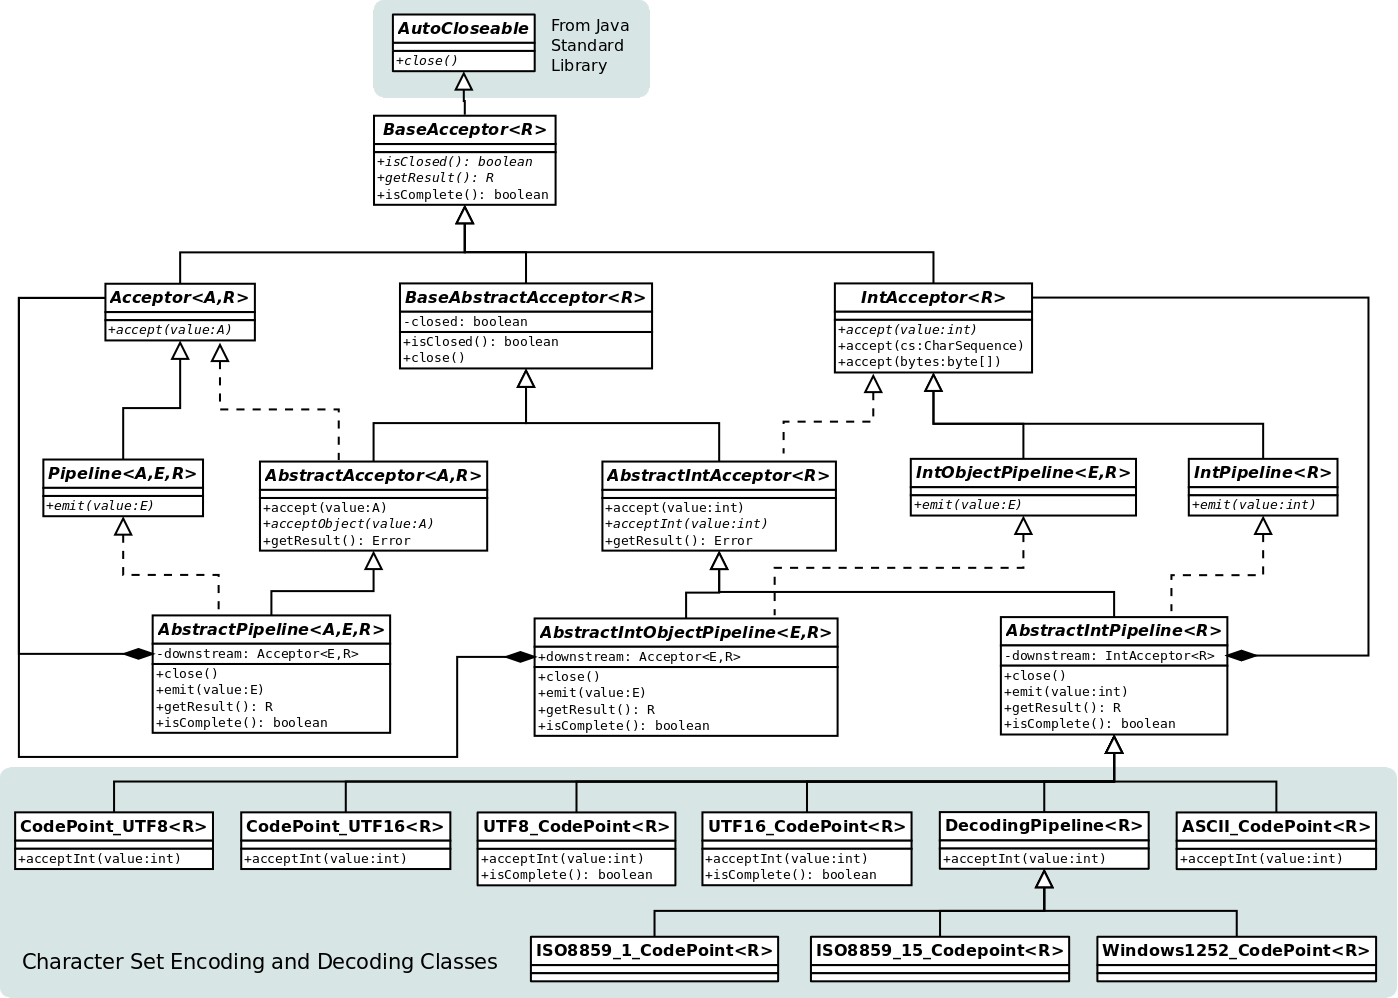
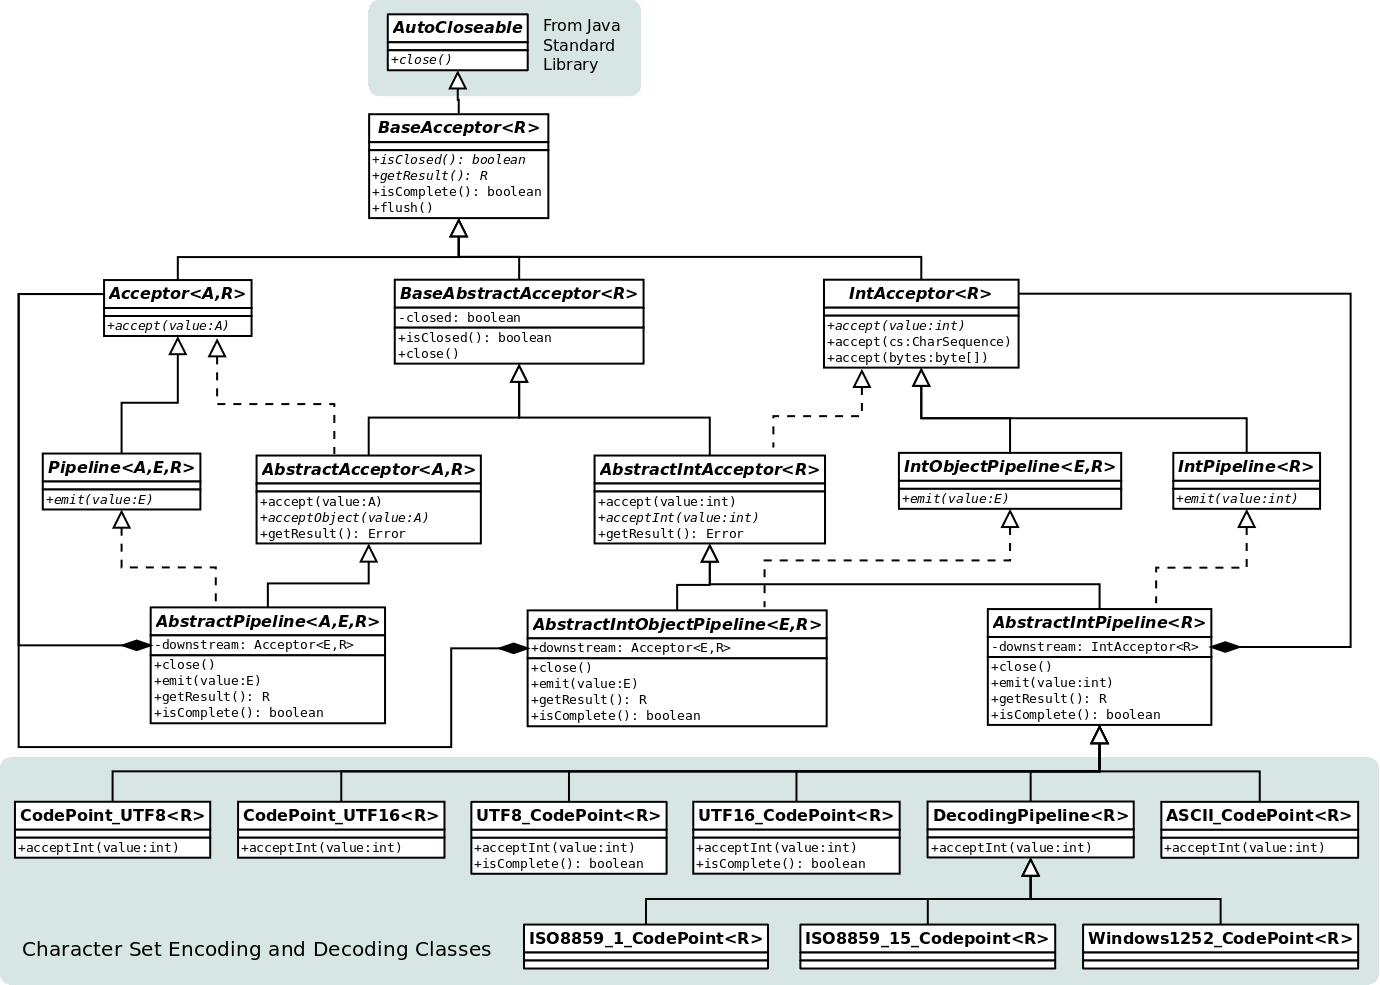
Added flush function

diff --git a/src/main/java/net/pwall/util/pipeline/AbstractIntObjectPipeline.java b/src/main/java/net/pwall/util/pipeline/AbstractIntObjectPipeline.java
@@ -35,7 +35,7 @@ package net.pwall.util.pipeline;
 public abstract class AbstractIntObjectPipeline<E, R> extends AbstractIntAcceptor<R>
         implements IntObjectPipeline<E, R> {
 
-    private Acceptor<? super E, ? extends R> downstream;
+    private final Acceptor<? super E, ? extends R> downstream;
 
     /**
      * Construct an {@code AbstractIntObjectPipeline} with the given downstream {@link Acceptor}.
@@ -84,6 +84,14 @@ public abstract class AbstractIntObjectPipeline<E, R> extends AbstractIntAccepto
     @Override
     public boolean isComplete() {
         return downstream.isComplete();
+    }
+
+    /**
+     * Propagate the flush operation to the downstream acceptor.
+     */
+    @Override
+    public void flush() {
+        downstream.flush();
     }
 
 }

diff --git a/src/main/java/net/pwall/util/pipeline/AbstractPipeline.java b/src/main/java/net/pwall/util/pipeline/AbstractPipeline.java
@@ -35,7 +35,7 @@ package net.pwall.util.pipeline;
  */
 abstract public class AbstractPipeline<A, E, R> extends AbstractAcceptor<A, R> implements Pipeline<A, E, R> {
 
-    private Acceptor<? super E, ? extends R> downstream;
+    private final Acceptor<? super E, ? extends R> downstream;
 
     /**
      * Construct an {@code AbstractPipeline} with the given downstream {@link Acceptor}.
@@ -84,6 +84,14 @@ abstract public class AbstractPipeline<A, E, R> extends AbstractAcceptor<A, R> i
     @Override
     public boolean isComplete() {
         return downstream.isComplete();
+    }
+
+    /**
+     * Propagate the flush operation to the downstream acceptor.
+     */
+    @Override
+    public void flush() {
+        downstream.flush();
     }
 
 }

diff --git a/src/main/java/net/pwall/util/pipeline/AbstractIntPipeline.java b/src/main/java/net/pwall/util/pipeline/AbstractIntPipeline.java
@@ -33,7 +33,7 @@ package net.pwall.util.pipeline;
  */
 public abstract class AbstractIntPipeline<R> extends AbstractIntAcceptor<R> implements IntPipeline<R> {
 
-    private IntAcceptor<? extends R> downstream;
+    private final IntAcceptor<? extends R> downstream;
 
     /**
      * Construct an {@code AbstractIntPipeline} with the given downstream {@link IntAcceptor}.
@@ -82,6 +82,14 @@ public abstract class AbstractIntPipeline<R> extends AbstractIntAcceptor<R> impl
     @Override
     public boolean isComplete() {
         return downstream.isComplete();
+    }
+
+    /**
+     * Propagate the flush operation to the downstream acceptor.
+     */
+    @Override
+    public void flush() {
+        downstream.flush();
     }
 
 }

diff --git a/src/main/java/net/pwall/util/pipeline/BaseAcceptor.java b/src/main/java/net/pwall/util/pipeline/BaseAcceptor.java
@@ -57,4 +57,10 @@ public interface BaseAcceptor<R> extends AutoCloseable {
         return true;
     }
 
+    /**
+     * Flush the acceptor (required by some implementations - default is a no-operation).
+     */
+    default void flush() {
+    }
+
 }

diff --git a/README.md b/README.md
@@ -48,6 +48,7 @@ checked exception, many of the method signatures in the library also include thi
 - `getResult()`: returns the result (the default implementation throws an exception)
 - `isComplete()`: returns `true` if all many-to-one sequences are complete, for example, all the bytes in a UTF-8
 multi-byte sequence have been received
+- `flush()`: instructs buffering acceptors to flush data to their output
 
 ### Pipeline interface
 
@@ -159,25 +160,25 @@ Of course, all of this is also accessible from Kotlin:
 
 ## Dependency Specification
 
-The latest version of the library is 0.8, and it may be obtained from the Maven Central repository.
+The latest version of the library is 0.9, and it may be obtained from the Maven Central repository.
 
 ### Maven
 ```xml
     <dependency>
       <groupId>net.pwall.util</groupId>
       <artifactId>pipelines</artifactId>
-      <version>0.8</version>
+      <version>0.9</version>
     </dependency>
 ```
 ### Gradle
 ```groovy
-    implementation 'net.pwall.util:pipelines:0.8'
+    implementation 'net.pwall.util:pipelines:0.9'
 ```
 ### Gradle (kts)
 ```kotlin
-    implementation("net.pwall.util:pipelines:0.8")
+    implementation("net.pwall.util:pipelines:0.9")
 ```
 
 Peter Wall
 
-2020-02-27
+2020-05-01

diff --git a/CHANGELOG.md b/CHANGELOG.md
@@ -2,6 +2,11 @@
 
 The format is based on [Keep a Changelog](http://keepachangelog.com/).
 
+## [0.9] - 2020-05-01
+### Changed
+- `BaseAcceptor`: added `flush()`
+- `AbstractPipeline`, `AbstractIntPipeline`, `AbstractIntObjectPipeline`: added `flush()`
+
 ## [0.8] - 2020-02-27
 ### Changed
 - Improved documentation
